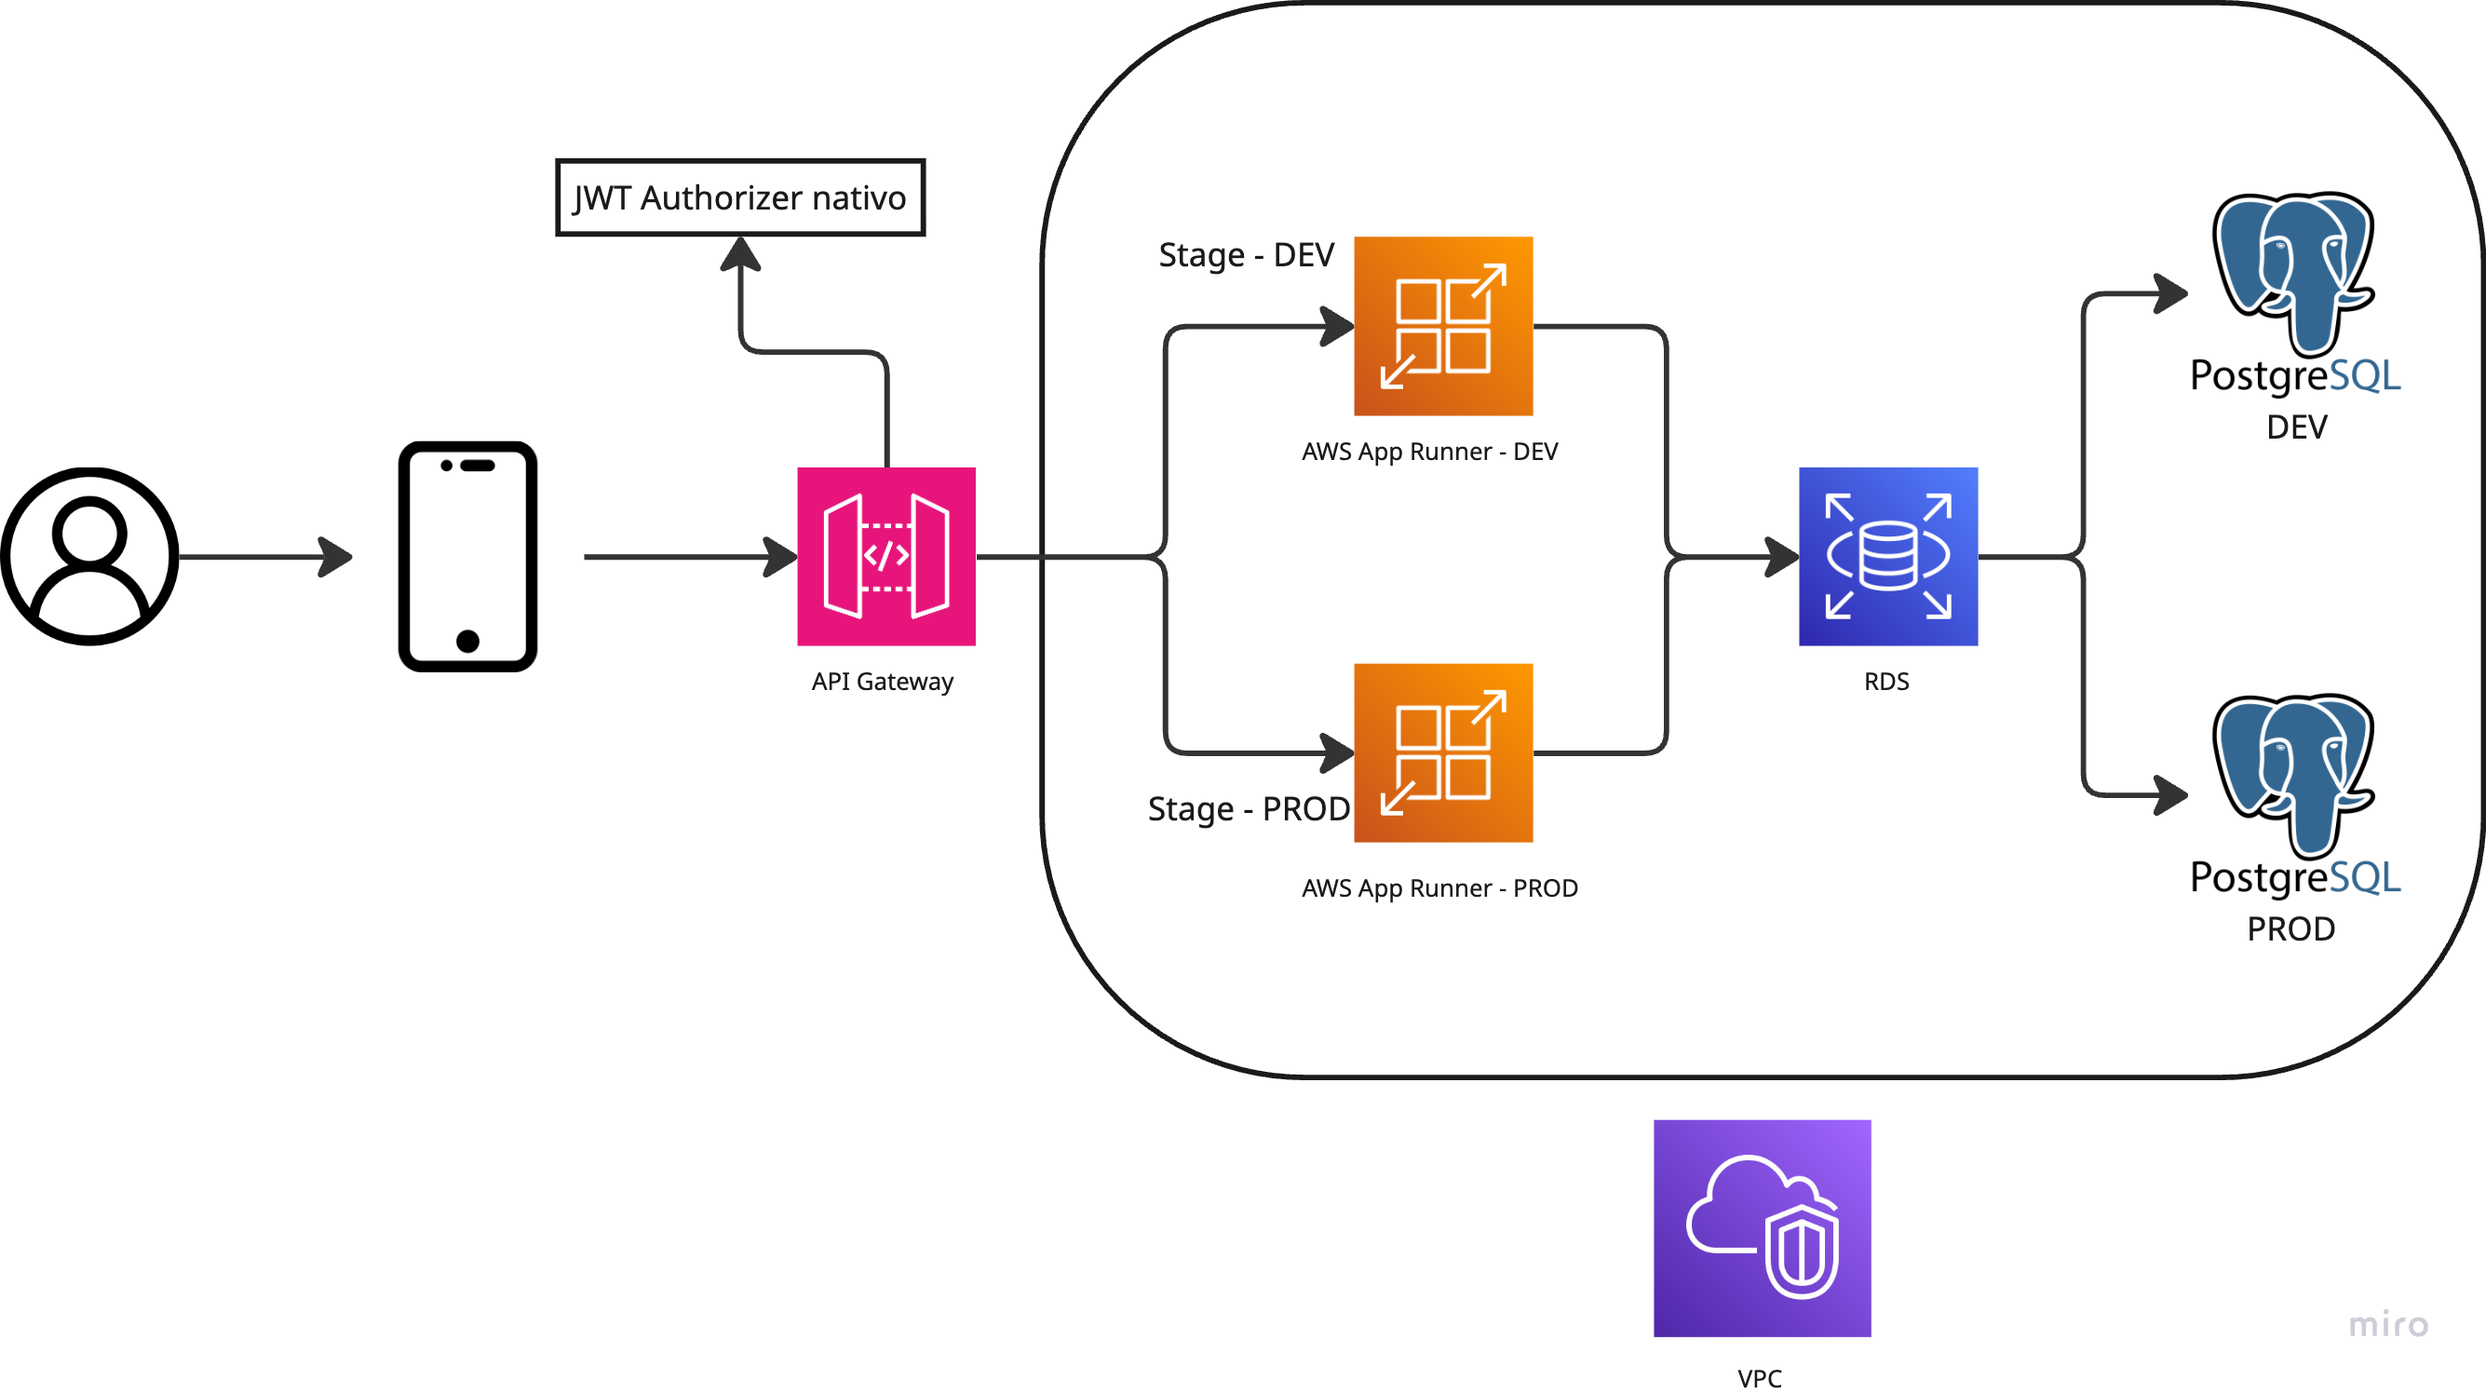
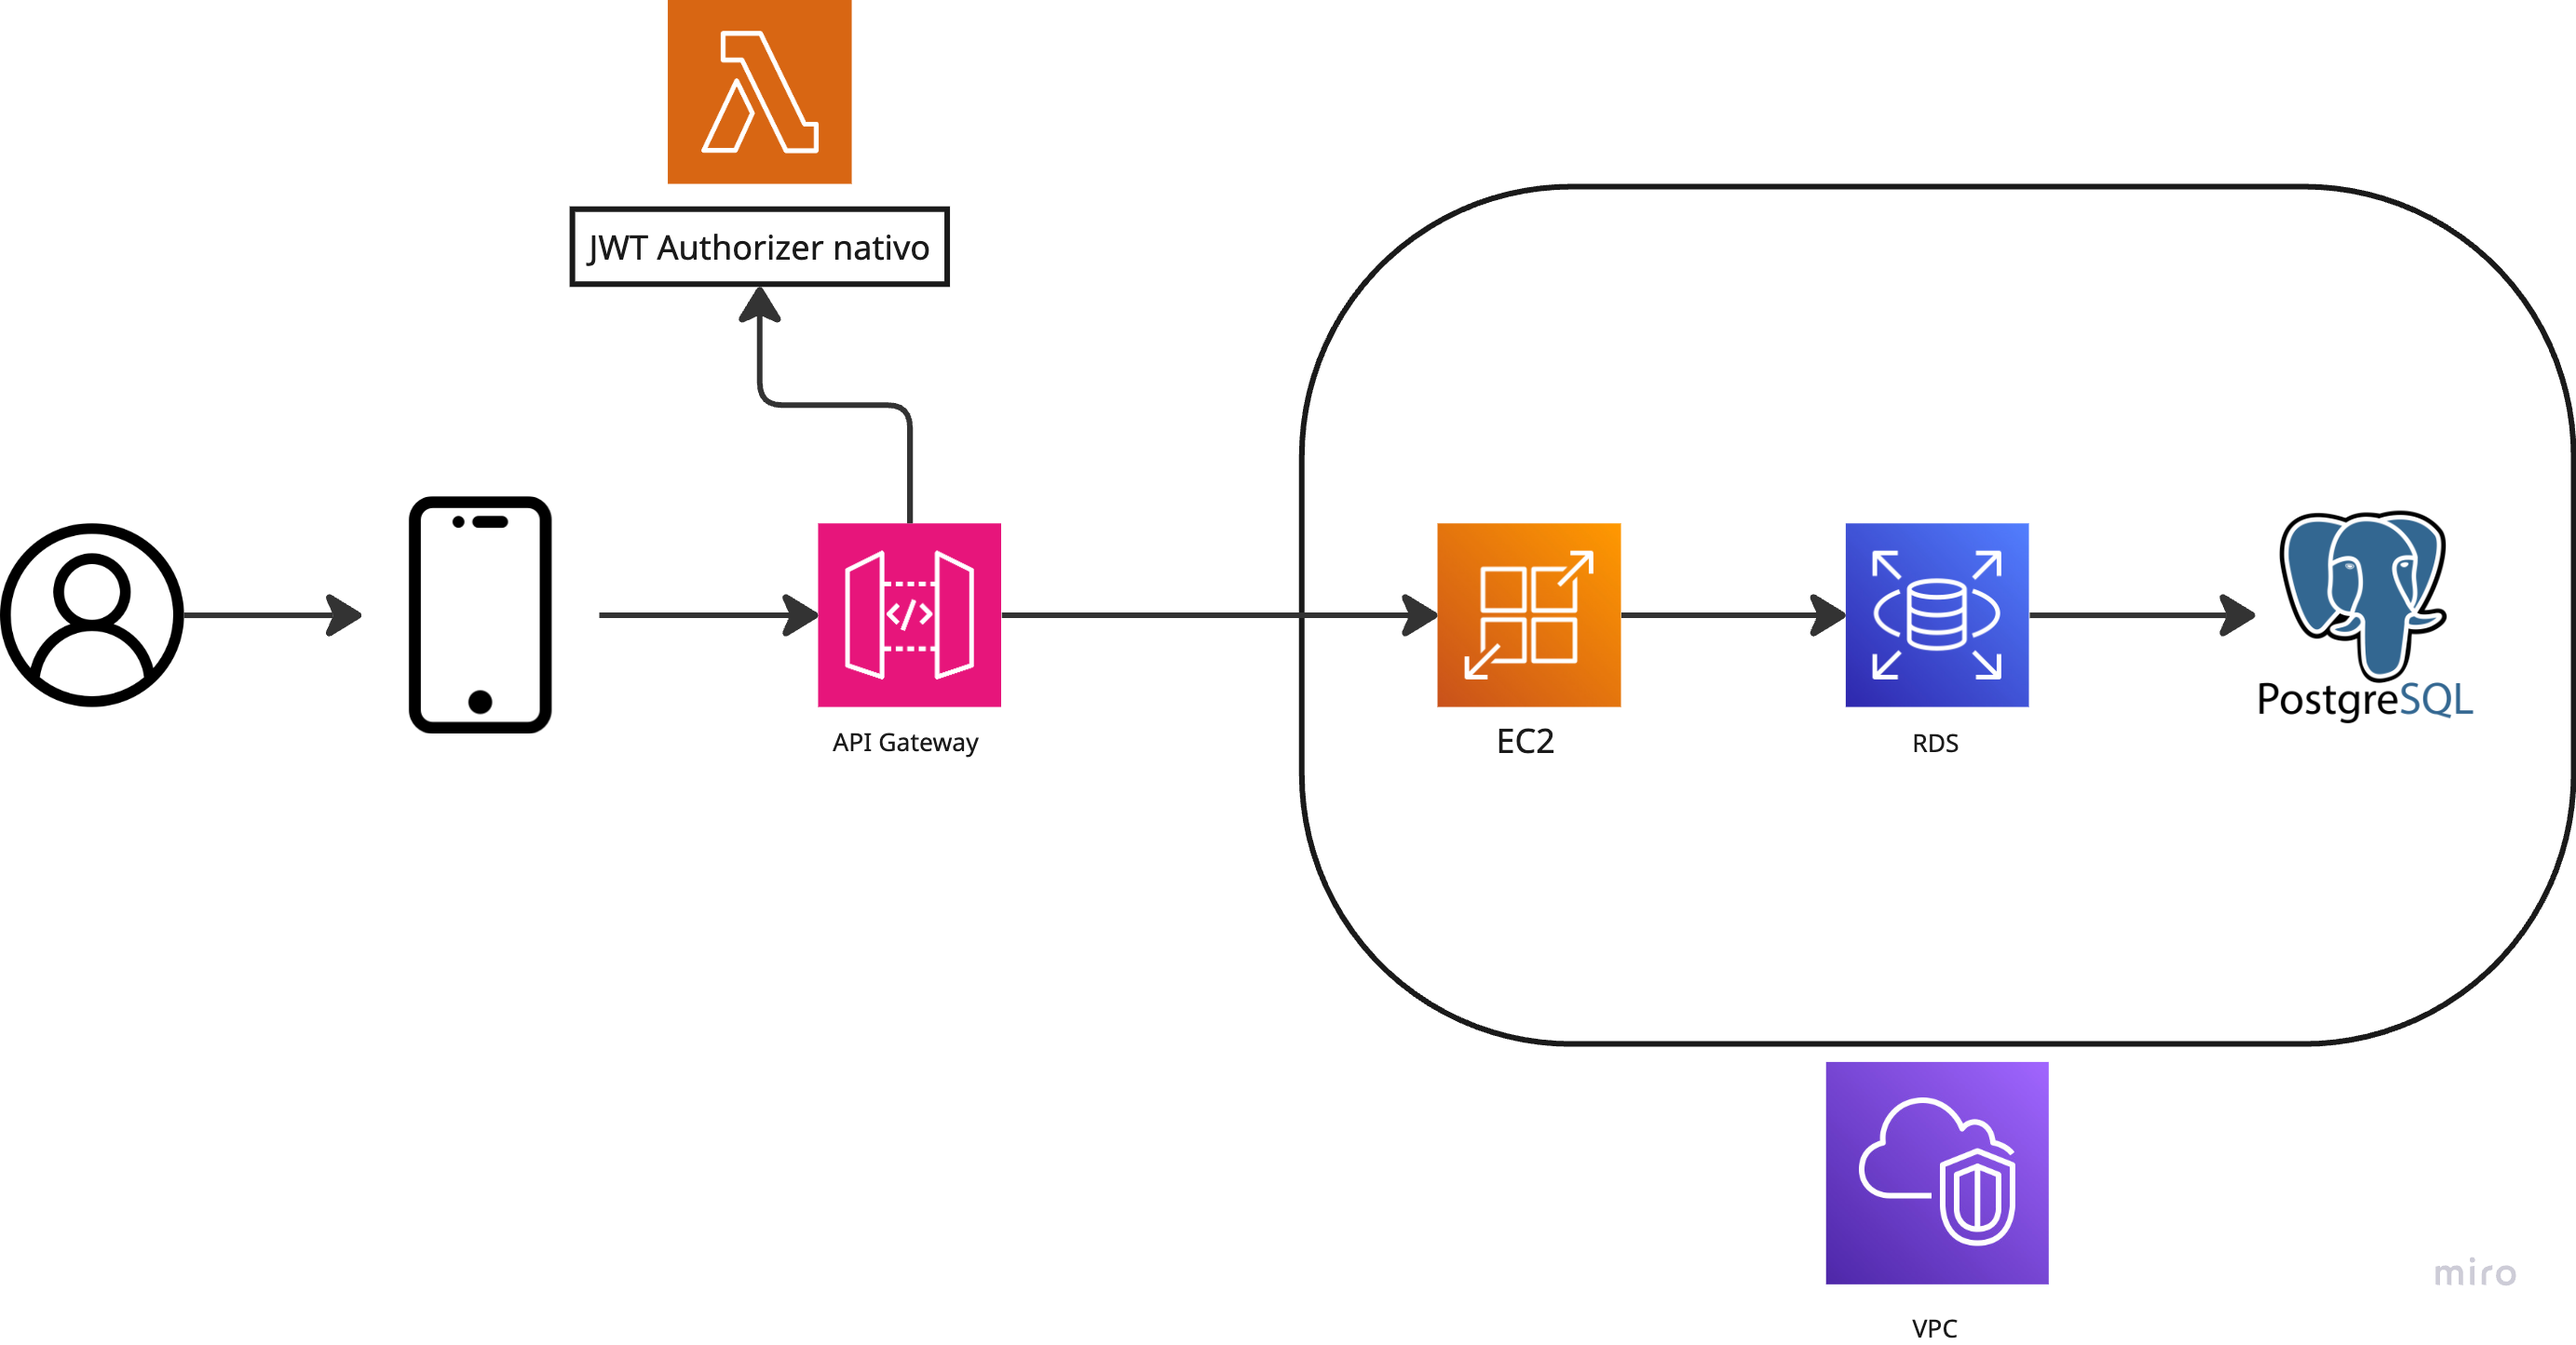
corrige arquitetura do capitulo 2 adicionando ec2 como host

diff --git a/textuais/cap2.tex b/textuais/cap2.tex
@@ -36,7 +36,6 @@ Segundo a \citeonline{awsrest}, APIs RESTful são interfaces que permitem a troc
     \item \textbf{Segurança e Escalabilidade (Stateless)}: O uso de tokens JWT (\textit{JSON Web Token}) em uma arquitetura \textit{stateless} elimina a necessidade de sessões no servidor, permitindo que o sistema escale horizontalmente com facilidade;
     \item \textbf{Separação de Responsabilidades (Layered System)}: A organização em camadas (\textit{Controller}, \textit{Service} e \textit{Repository}) isola a lógica de negócio. Isso permite que a regra de aprovação de motoristas seja testada e mantida de forma independente da persistência de dados;
     \item \textbf{Gestão de Estado de Segurança}: O servidor atua como o validador central do estado do motorista. Diferente de sistemas genéricos, o IF Ride bloqueia nativamente a criação de caronas por usuários cujos documentos ainda não foram validados por um administrador no módulo de gestão;
-    \item \textbf{Integração de Infraestrutura em Nuvem}: O uso de serviços AWS, como o S3 para armazenamento de documentos, demonstra uma arquitetura moderna que delega a gestão de arquivos binários para serviços especializados, focando o código Java estritamente na lógica do domínio.
 \end{enumerate}
 
 \subsection{Arquitetura}
@@ -56,17 +55,15 @@ A arquitetura proposta tem como objetivo principal garantir a segurança, a esca
 
 O fluxo de comunicação inicia-se no cliente móvel, que realiza requisições à API por meio do Amazon API Gateway, configurado como ponto de entrada da aplicação. Antes que qualquer requisição seja encaminhada à camada de aplicação, o API Gateway realiza a validação do token JWT por meio de um autorizador nativo, assegurando que apenas requisições autenticadas sejam processadas.
 
-A utilização de um autorizador JWT no Amazon API Gateway, mesmo com a presença de mecanismos de autenticação e autorização na camada de aplicação, fundamenta-se no princípio de defesa em profundidade. A validação antecipada do token permite que requisições inválidas ou malformadas sejam bloqueadas antes de alcançarem o AWS App Runner, evitando o provisionamento desnecessário de instâncias para processamento de chamadas não autorizadas.
+A utilização de um autorizador JWT no Amazon API Gateway, mesmo com a presença de mecanismos de autenticação e autorização na camada de aplicação, fundamenta-se no princípio de defesa em profundidade. A validação antecipada do token permite que requisições inválidas ou malformadas sejam bloqueadas antes de alcançarem a instância EC2, evitando chamadas desnecessárias que podem causar sobrecarga na máquina, visto que em tipos de instância com menor poder de processamento o acúmulo de requisições simultâneas pode acarretar em lentidão ou até mesmo na derrubada do sistema.
 
-Essa estratégia é particularmente relevante em cenários de alta volumetria de requisições ou potenciais ataques de negação de serviço em nível de aplicação, nos quais o escalonamento automático do App Runner poderia resultar em aumento significativo de custos e degradação do serviço. Ao concentrar a validação inicial no API Gateway, que opera de forma altamente escalável e com menor custo, a arquitetura torna-se mais eficiente, resiliente e economicamente sustentável.
+Essa estratégia é particularmente relevante em cenários de alta volumetria de requisições ou potenciais ataques de negação de serviço em nível de aplicação, nos quais o aumento do processamento da EC2 poderia resultar em lentidão significativa e degradação do serviço. Ao concentrar a validação inicial no API Gateway, que opera de forma altamente escalável e com menor custo, a arquitetura torna-se mais eficiente, resiliente e economicamente sustentável.
 
-Após a autenticação, as requisições válidas são direcionadas à aplicação hospedada no AWS App Runner, responsável pela execução da lógica de negócio. O uso de um serviço gerenciado e sob demanda possibilita o provisionamento automático de recursos conforme a carga de trabalho, contribuindo para a otimização de custos, uma vez que instâncias são alocadas apenas quando necessário.
+Após a autenticação, as requisições válidas são direcionadas à aplicação hospedada no AWS Elastic Compute Cloud (EC2), responsável pela execução da lógica de negócio. O uso de um serviço como o EC2, totalmente em nuvem e sob demanda possibilita que o usuário desfrute de um estilo de cobrança específico em que somente serão cobradas as instâncias ativas, contribuindo para a otimização de custos, uma vez que o usuário não dispõe de um custo inicial relacionado à infraestrutura, somente às instâncias que provisionar.
 
 A camada de persistência de dados é composta por um banco de dados relacional PostgreSQL, gerenciado pelo Amazon RDS, que oferece alta disponibilidade, backups automatizados e gerenciamento simplificado. A aplicação mantém comunicação direta com o banco de dados para armazenamento e recuperação das informações persistentes.
 
 Todos os componentes da arquitetura encontram-se inseridos em uma Virtual Private Cloud (VPC), que atua como uma camada adicional de segurança ao restringir o acesso direto aos serviços internos. Essa configuração garante maior isolamento da infraestrutura, limitando a exposição dos recursos à internet pública e reduzindo a superfície de ataque da aplicação.
-
-A arquitetura também prevê a separação dos ambientes de desenvolvimento e produção, permitindo a validação de novas funcionalidades em um ambiente controlado antes de sua disponibilização em produção. Essa separação contribui para a estabilidade da aplicação e reduz riscos associados a alterações no sistema.
 
 \section{Aplicativo Móvel (Front-End)}
 

diff --git a/textuais/cap3.tex b/textuais/cap3.tex
@@ -1,0 +1,15 @@
+\chapter{Análise e Projeto do Sistema}
+
+Este capítulo detalha a fase de análise e projeto do IF Ride, demonstrando os objetivos estratégicos e metodologia experimental em uma estrutura técnica formalizada. O propósito central desta etapa é delimitar o escopo funcional e as restrições de negócio que asseguram a viabilidade do software proposto.
+
+A estruturação do capítulo é fundamentada na identificação das necessidades dos usuários e nas regras de negócio que regem o compartilhamento de caronas no contexto acadêmico. Para isso, o conteúdo é separado em:
+
+\begin{itemize}
+    \item \textbf{Levantamento de Requisitos}: Especificação das capacidades funcionais e não funcionais do sistema.
+    \item \textbf{Regras de Negócio}: Formalização das restrições lógicas que garantem a integridade do sistema e independem de tecnologia.
+    \item \textbf{Modelagem do Sistema}: Representação abstrata da solução, incluindo diagramas essenciais e modelagem de dados.
+\end{itemize}
+
+\section{Levantamento de Requisitos}
+
+O levantamento de requisitos é a base de todo o desenvolvimento do projeto, sendo a fase de maior importância, visando detalhar desde os casos mais básicos, até as regras mais complexas que devem ser implementadas com o objetivo de garantir o acesso e resolução dos principais problemas que os usuários poderiam enfrentar durante a utilização do IF Ride.

diff --git a/monografia.tex b/monografia.tex
@@ -77,7 +77,7 @@
 
 \setcounter{page}{1}   
 
-\includepdf[pages=-]{pretextuais/ficha-catalografica.pdf}
+%\includepdf[pages=-]{pretextuais/ficha-catalografica.pdf} --- LUAN -> INSERIR FICHA CATALOGRAFICA
 
 \begin{center}
     \includegraphics[width=\textwidth,height=0.9\textheight]{pretextuais/TCAE_-_Termo_de_autorizacao_1.jpg}
@@ -88,10 +88,10 @@
 \end{center}
 
 
-\includepdf[pages=-]{pretextuais/ata_defesa.pdf}
+%\includepdf[pages=-]{pretextuais/ata_defesa.pdf} --- LUAN -> INSERIR ATA DEFESA
 
 
-\includepdf[pages=-]{pretextuais/folhaaprovacao_diegofelipe.pdf}
+%\includepdf[pages=-]{pretextuais/folhaaprovacao_diegofelipe.pdf} --- LUAN -> INSERIR FOLHA APROVACAO
 
 \include{pretextuais/agradecimentos}       %agradecimentos-opcional
 %\include{pretextuais/epigrafe}             %epigrafe-opcional
